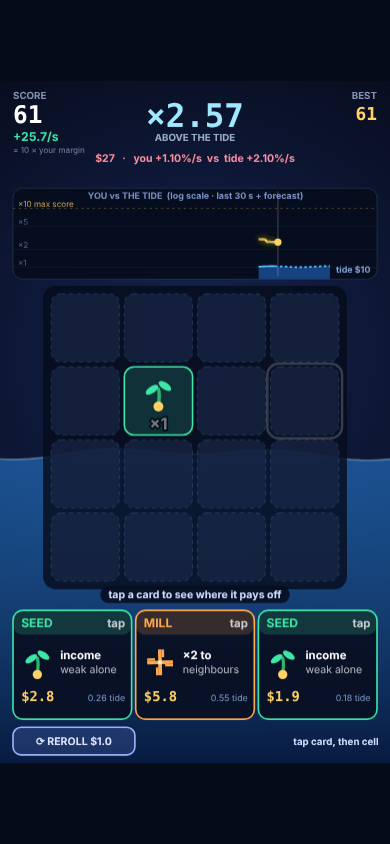
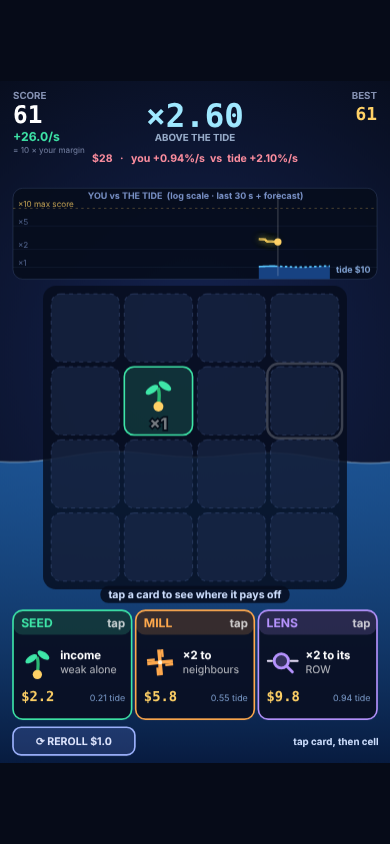
Report template + generators (tables, weight sensitivity); WIP final friction fixes
Claude-Session: https://claude.ai/code/session_01DFtzVURspk5R5pY7Xudhci

diff --git a/lab/reporttables.js b/lab/reporttables.js
@@ -34,3 +34,12 @@ const tot = v => Object.values(v.games).reduce((s, g) => s + Object.values(g.bot
 const errs = v => Object.values(v.games).reduce((s, g) => s + g.signals.consoleErrors + g.signals.sessionErrors, 0);
 o += `\nSessions: ${tot(v1)} in round 1 and ${tot(v2)} in round 2. Console or session errors: ${errs(v1)} and ${errs(v2)}. No bot in any session survived the 15-minute cap.\n`;
 process.stdout.write(o);
+
+// weight sensitivity
+const schemes = [['Official (0.30 bot, 0.35 critic, 0.35 me)', [.3, .35, .35]], ['Equal thirds', [1 / 3, 1 / 3, 1 / 3]], ['Bots only', [1, 0, 0]], ['Blind critic only', [0, 1, 0]], ['My score only', [0, 0, 1]], ['Humans only (critic + me)', [0, .5, .5]]];
+let s2 = '\n### Does the winner survive other weightings?\n\n| Weighting | 1st | 2nd | 3rd |\n|---|---|---|---|\n';
+for (const [n, [b, c, m]] of schemes) {
+  const r = sc.games.map(g => ({ n: g.name, v: b * g.bot + c * g.critic + m * g.mine })).sort((x, y) => y.v - x.v);
+  s2 += `| ${n} | ${r[0].n} (${r[0].v.toFixed(2)}) | ${r[1].n} (${r[1].v.toFixed(2)}) | ${r[2].n} (${r[2].v.toFixed(2)}) |\n`;
+}
+process.stdout.write(s2);

diff --git a/lab/buildreport.js b/lab/buildreport.js
@@ -1,0 +1,10 @@
+#!/usr/bin/env node
+// Assemble REPORT.md = lab/report.template.md with generated tables (lab/reporttables.js) inserted.
+'use strict';
+const fs = require('fs');
+const path = require('path');
+const { execFileSync } = require('child_process');
+const tpl = fs.readFileSync(path.join(__dirname, 'report.template.md'), 'utf8');
+const tables = execFileSync('node', [path.join(__dirname, 'reporttables.js')], { encoding: 'utf8' });
+fs.writeFileSync(path.join(__dirname, '..', 'REPORT.md'), tpl.replace('<!--TABLES-->', '## The numbers\n\n' + tables));
+console.log('wrote REPORT.md');

diff --git a/games/compound.html b/games/compound.html
@@ -246,8 +246,9 @@ function pressCard(k) { if (!S.shop[k]) return; if (S.sel !== k) select(k); else
 function select(k) {
   if (!S.shop[k]) return;
   S.sel = k; S.arm = -1;
+  { const h = heatMap(); if (h && h.bestI >= 0) S.cur = h.bestI; }   // the cursor jumps to ★ best, so pressing again builds where the panel says
   if (QUIET) return;
-  FX.cardPop[k] = 1; FX.selA = 0;
+  FX.cardPop[k] = 1; FX.selA = 0; FX.tile[S.cur] = Math.max(FX.tile[S.cur], 0.6);
   sfx(t => { tone(t, 'triangle', 660, 0.07, 0.06); tone(t + 0.05, 'triangle', 990, 0.09, 0.05); });
 }
 function place() {

diff --git a/lab/report.template.md b/lab/report.template.md
@@ -1,0 +1,112 @@
+# THE FUN LAB: Report
+
+**The winner is PIPWALK**, a roguelite in which you *are* a die. Rolling is how you move, and whichever face lands on top is your attack. It won on every kind of evidence:
+- the only perfect graded bot score (10.0/10);
+- 10/10 from both independent blind critics;
+- my own 8.5;
+- 1st in 6 of 7 alternative weightings of those three judges.
+
+**Play it:** [`games/pipwalk.html`](games/pipwalk.html) · **Hub:** [`index.html`](index.html) (tiles, local high scores, score-distribution charts) · **Rubric:** [`research/FUN.md`](research/FUN.md) · **Every call I made:** [`DECISIONS.md`](DECISIONS.md)
+
+---
+
+## What I did
+
+1. **Research → rubric.** I read up on MDA, Koster's *Theory of Fun*, flow, self-determination theory and PENS, game feel and juice, Celeste-style forgiveness, Juul on fair failure, Sid Meier's interesting decisions, the "30 seconds of fun" idea, and design breakdowns of Tetris, Vampire Survivors, Balatro, Downwell and Flappy Bird. I distilled this into **15 principles, each with a checkable test** (bot-measured, play-measured, or code-checked). Console errors and non-determinism are a hard gate rather than a principle.
+2. **20 pitches → 10 builds.** I wrote two pitches per genre (arcade, puzzle, roguelite, rhythm, physics, idle, word, tiny strategy, 2-player, weird), each "familiar genre + one twist". I kept the one per genre whose twist best served a rubric principle. Five parallel builder agents wrote the games to a shared **contract**: one HTML file, a seeded fixed-step sim, `snapshot`/`restore` for bot lookahead, and `quiet` mode so lookahead doesn't spray particles.
+3. **The lab.** I ran headless Chromium through Playwright. Each game got three bots: **random**, a **heuristic** rule of thumb, and a **smart** bot that searches ahead with snapshot/restore. Each bot played **50 seeded sessions per game**. The lab logged score, session length, actions/min, game-over cause, longest scoreless gap and console errors. It also took screenshots at the start, middle, intense moment and game-over. I played every game myself through a **time-stepped play server** that sends real key presses while time advances only on request, and took notes. A **blind critic agent** that never saw the code scored every game against FUN.md.
+4. **Iteration.** I fixed every bug the critic found. I hard-reworked the bottom of the table (JUNK ORBIT, MAGSUMO, KICKBACK, plus COMPOUND, which two sources independently flagged) and polished the top (LOOPBACK, PIPWALK, SPELLSNAKE, MAZEWRIGHT). Then I re-ran the whole lab, and a **fresh** blind critic replayed the seven changed games.
+
+All 10 games are bug-free by the lab's definition: **0 console or page errors across 3,000 bot sessions and about 45 critic runs, 100% determinism checks passed, and no bot in any session reached the 15-minute cap.**
+
+<!--TABLES-->
+
+---
+
+## Why PIPWALK won (the receipts)
+
+- **Bots.** PIPWALK is the only game where every graded component is maxed:
+  - Skill gap: the smart bot's median score is ~98× the random bot's.
+  - Smooth mastery slope: the heuristic bot sits 0.44 of the way up the log ladder from random to smart.
+  - Pacing: the smart bot's median session is 101 s.
+  - Variety: smart-bot scores vary across seeds with a CV of 0.75.
+  - Reward cadence: something scores every ~4 s.
+  - Random survives ~21% as long as smart, so flailing is neither instant death nor immortal.
+- **Blind critic, round 1 (10/10):** "the deepest game in the set — the draft means each run feels different." Best moment: "Glass Cannon + Twin Fangs and three straight 5-face hits… MATCH ×5 → +530 in one bump."
+- **Fresh blind critic, round 2 (10/10, 29/30):** "A tactical dice puzzle with exact damage previews… the deepest and best-explained game here." Best moment: "working out on paper that the rolls N, W, W, N, N, N land a 6 on top directly under the Elite." Also: "This is the game I'd most like to keep playing."
+- **Me (8.5):** "Every move was a small plan that paid off… the most *interesting decisions per move* in the set." The plans were things like retreating one roll so a 4 lands on top, or rolling a 6 between a skull and a slime so both show "⚔24 KILL".
+- **Why it works, in rubric terms:**
+  - **#12 few verbs, deep use:** four arrow keys, and every roll is both movement and weapon selection.
+  - **#7 interesting decisions:** the die's topology makes each move a trade-off.
+  - **#5 legible failure:** foe intents, red danger tiles, exact "⚔N KILL" badges, and "CHAIN BROKEN (you were hit)".
+  - **#14 multiplicative reward:** STRAIGHT and MATCH chains times Balatro-style face upgrades.
+  - **#8 a pattern to learn:** "four rolls one way is identity", "stalling preserves the face".
+- **Robustness.** PIPWALK is 1st under the official weighting, under equal thirds, under bots only, under the blind critic alone (tied with MAZEWRIGHT), and under humans only. The only weighting it loses is "my score alone", where SPELLSNAKE edges it 9.0 to 8.5.
+
+## What iteration bought
+
+- **JUNK ORBIT, worst to 5th, the biggest climb.** In round 1, blind spam scored about the same as aiming (skill gap 5.5×, critic 6/10). One rule change fixed it: **a miss becomes loose debris that hunts you, and a star hit becomes a safe, scoring orbit.** I added an accuracy streak, telegraphed returns, and the ability to shoot debris for a SAVE. Skill gap went to about 63×, random survival halved, and the fresh critic gave 9/10.
+- **COMPOUND, 7th to 6th.** "Mashing survived as long as careful play" and "I couldn't tell what I was maximizing." The score became *10 × your margin above the tide per second*, so the number you watch *is* the score. A heat-map now shows the ★ best cell for the selected card. The skill gap went from 18× to 58×, and the critic score from 8 to 9.
+- **KICKBACK, playable at last.** Everyone died within 10 s in round 1, and nobody saw wave 2. I added eased faster turning, a drift arrow distinct from the aim line, a clear nose, gentle waves 1–3 and a fading rim shield. Random-bot survival went from 3.6 s to 18.8 s, and mine from about 6 s to 16 s.
+- **Top-3 polish was mostly about teaching:**
+  - LOOPBACK now teaches PHASE when it matters, with a kinder pickup radius and late-game clutter fading.
+  - PIPWALK now explains every chain break and dodge, and shows numerals on the preview dice.
+  - SPELLSNAKE now deals a guaranteed nearby starter word and states the 3+ letter and fuse rules on screen.
+- **Bugs found by the critics and fixed:**
+  - TILTWELL: ArrowUp silently spent a tilt, and quick taps were dropped.
+  - UPTEMPO: the start key counted as a brake.
+  - MAZEWRIGHT: number keys ignored on the upgrade cards; cursor presses dropped.
+  - LOOPBACK: dying 50 ms after a successful phase.
+  - COMPOUND: unreadable "$18.9DDc" numbers.
+  - MAGSUMO: deaths blamed on "you" when you hadn't touched anything.
+
+## The biggest surprise
+
+**My own bot metric stopped measuring anything by Phase 3.** The v1 signals in `lab/run.js` gave all ten games a perfect 10/10. I had published the thresholds in the contract (skill gap ≥3×, a 60–300 s median, no cap hits). Each builder tuned to them, so every game passed. That is Goodhart's law at lab scale. I added a *graded* v2 score (`lab/botscore.js`, D5) that measures the same principles on continuous scales, and it immediately separated the games again. The lesson I'd keep: a fun metric the designers can see becomes a design target, so keep a held-out measure, here the blind critic.
+
+A close second surprise: the single rule change in JUNK ORBIT ("misses hunt you") moved the critic score by 3 points. That was more than any amount of juice or polish moved any game.
+
+## Where the data and my gut disagreed
+
+- **The twitch games (KICKBACK, MAGSUMO, and JUNK ORBIT in round 1).** The bots reported huge skill gaps: KICKBACK's smart bot beats random by ~600×, and MAGSUMO's heuristic bot beats random by ~80×. Yet both blind critics found that random mashing **matched or beat** their deliberate play. In round 2, a mash run's CHAIN ×7 in KICKBACK beat the critic's best by 4.6×, and the critic never won a MAGSUMO round against the level-1 CPU. Both sides are right. Bots have perfect reflexes and read exact state. A stepped-time tester turns 20° per 50 ms tick and can't see between screenshots. So the bots measured the **skill ceiling** and the testers measured the **skill floor**. MAGSUMO is last in my ranking because its floor stayed steep after a hard rework. My gut sides with the testers, and I'd want real humans at real keyboards before trusting either.
+- **UPTEMPO.** It has the lowest graded bot score (7.7), but the critic gave it 9 and it's the most *Sensation*-rich game in the set. The metric punishes it because a simple rule-following bot is already near-optimal at rhythm (the heuristic sits 0.91 of the way up the ladder), and random dies in 2.7 s. That's a property of the genre, not a design flaw. Neither tester could hear the music, so this score is the least trustworthy in the table.
+- **SPELLSNAKE.** It's my favourite (9.0), but the fresh critic dropped it from 9 to 8 after the polish pass. A stepped-time player can't time turns one cell ahead, and turn timing is exactly what the polish didn't change. I suspect my score is inflated by having watched the polish land.
+- **MAZEWRIGHT.** The round-1 critic gave it 10. I gave it 8, because during waves you mostly watch. The data sides partly with me: its random bot survives about 80% as long as the smart bot (because the core turret plays for you), so "flailing" isn't punished.
+
+## Limits of this lab (read before trusting the decimals)
+
+- The critics are AI agents playing in **stepped time with no audio**. That biases scores toward thinkable games (PIPWALK, LOOPBACK, COMPOUND) and against twitch and rhythm games. The winner is turn-based, so treat "best game" as "best game for a deliberate player". The rubric happens to reward exactly that.
+- The round-2 critic replayed only the seven changed games. TILTWELL, UPTEMPO and MAZEWRIGHT keep their round-1 critic scores (D10).
+- My own score is one person's judgement, recorded before I saw the critic's numbers, then updated after re-plays. Both are in `lab/notes/mine-scores.json`.
+- Builders saw the rubric and the v1 thresholds. That's realistic (designers know what fun is) but it inflates structural compliance, which is why the graded v2 metric and blind critics carry the weight.
+
+## What I'd build next
+
+1. **PIPWALK, full version:**
+   - a daily seed with a shareable run card;
+   - boss floors with readable attack patterns;
+   - more face types (reflect, chain-lightning, clone);
+   - light meta-progression that unlocks starting dice (the Vampire Survivors "even a loss pays" loop);
+   - an audio pass, since nobody has *heard* it yet.
+2. **Fix the lab's blind spot: a "masher" bot tier and a human-latency smart bot.**
+   - The masher hammers the highest-value button with no state reading. If it beats the heuristic, the game has a spam exploit. The critics caught three of those; the bots caught none.
+   - The human-latency smart bot gets the same search with 150–250 ms reaction delay and input noise, to estimate the *skill floor* the testers kept hitting.
+3. **Five real humans at real keyboards, with sound,** on the twitch games (KICKBACK, MAGSUMO, UPTEMPO, SPELLSNAKE). These are the ones where my measurement method is weakest.
+4. **LOOPBACK as a puzzle mode:** hand-authored rooms where your ghosts are *keys*: "be at the switch when ghost #3 arrives." The fresh critic was already doing this in their head ("never be where you were 5/13/20 s ago").
+
+---
+
+### Files
+- `research/FUN.md`: the 15-principle rubric and its sources.
+- `DECISIONS.md`: every judgement call (D1–D10+).
+- `games/*.html`: the 10 games, plus `CONTRACT.md` and `BRIEFS.md`.
+- `lab/`: the harness:
+  - `check.js`: contract, determinism and errors;
+  - `run.js`: 50-seed bot runs;
+  - `shoot.js`: screenshots;
+  - `play.js`: stepped play server;
+  - `botscore.js`: graded metric;
+  - `rank.js`, `reporttables.js`, `buildhub.js`;
+  - `bots/`: three bots per game.
+- `lab/notes/`: my play notes (`mine.md`), both critics (`critic.md`, `critic2.md`) and score files.
+- `lab/results/`: raw session data (`summary.v1.json`, `summary.v2.json`, per-game JSON).
